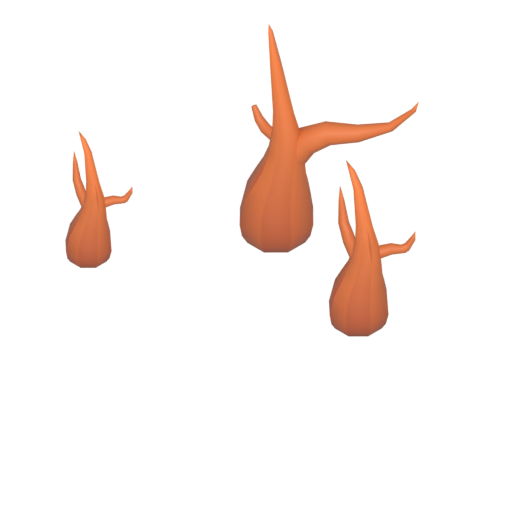
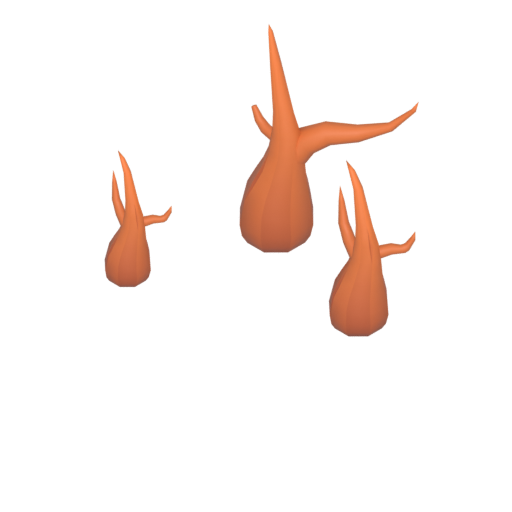
[AlphaPolo] art: 泥沼改用俯視地塊貼圖投影到地平面 + 荊棘微調
- 泥沼：KayKit 泥地方塊(俯視渲染)+睡蓮，改用 iso.axisX/axisY 基底
  投影到棋盤真正的地平面 → 角度與地板完全一致（取代自帶透視的斜視方塊）
- _drawGroundTexture() 一次仿射繪製，_mudFill/_mudTint 可調大小與色調
- 荊棘：三株枯枝聚攏（最左枝往中間靠）

Changed region(s): [[0.125, 0.25, 0.3438, 0.5625]]

diff --git a/lib/game/components/environment.dart b/lib/game/components/environment.dart
@@ -1,4 +1,5 @@
 import 'dart:math';
+import 'dart:typed_data';
 import 'dart:ui' as ui;
 
 import 'package:flame/components.dart';
@@ -44,6 +45,10 @@ class EnvComponent extends PositionComponent
   static ui.Image? _blankImg; // 沒有可倒映物件時綁的 1x1 透明圖
   // 水池外型不規則程度：0＝正圓，越大邊緣越有機（各池外型不同但固定）。
   static const double _pondWobble = 0.05;
+
+  // ── 泥沼俯視貼圖可調參數 ──────────────────────────────
+  static const double _mudFill = 0.95; // 相對格子的填滿程度（>1 稍微溢出、蓋滿整格）
+  static const Color _mudTint = Color(0xFFC6BA9C); // modulate 染色：提亮＋略降橘
 
   bool get _standing => envType == EnvType.boulder || envType == EnvType.woods;
 
@@ -122,7 +127,10 @@ class EnvComponent extends PositionComponent
         }
         break;
       case EnvType.mud:
-        _flat(canvas, foot, const Color(0xCC5D4037));
+        // KayKit 泥地方塊（俯視貼圖）+ 睡蓮，用地面基底向量投影到棋盤真正的
+        // 地平面上 → 角度與地板完全一致；貼地畫在單位之下、填滿整格。
+        _drawGroundTexture(canvas, foot, game.mudSprite.image, _mudTint,
+            fill: _mudFill);
         break;
       case EnvType.thorns:
         // KayKit 灌木叢 3D 素材（帶刺矮樹叢），底部對齊格子中心。
@@ -243,4 +251,36 @@ class EnvComponent extends PositionComponent
   /// 用貼地橢圓填一塊顏色。
   void _flat(Canvas canvas, Offset foot, Color col, {double wobble = 0}) =>
       canvas.drawPath(_groundPath(foot, wobble: wobble), Paint()..color = col);
+
+  /// 把一張「俯視」貼圖以 iso.axisX/axisY 為基底投影到棋盤地平面上：
+  /// 以格中心 [foot] 為中心、依 [fill] 填滿格子，平躺角度與地板完全一致。
+  /// [tint] 以 modulate 相乘（提亮/降飽和），一格內只做一次仿射繪製。
+  void _drawGroundTexture(Canvas canvas, Offset foot, ui.Image img, Color tint,
+      {double fill = 1.0}) {
+    final ax = game.iso.axisX;
+    final ay = game.iso.axisY;
+    final r = game.board.hexagonRadius * fill;
+    final w = img.width.toDouble(), h = img.height.toDouble();
+    final kx = 2 * r / w, ky = 2 * r / h;
+    // 貼圖像素(px,py) → 本元件座標：
+    //   local = foot + axisX*((px/w-.5)*2r) + axisY*((py/h-.5)*2r)
+    final m02 = foot.dx - (ax.x + ay.x) * r;
+    final m12 = foot.dy - (ax.y + ay.y) * r;
+    final m = Float64List.fromList(<double>[
+      ax.x * kx, ax.y * kx, 0, 0, // col 0：px
+      ay.x * ky, ay.y * ky, 0, 0, // col 1：py
+      0, 0, 1, 0, // col 2：z
+      m02, m12, 0, 1, // col 3：平移
+    ]);
+    final paint = Paint()
+      ..isAntiAlias = true
+      ..filterQuality = FilterQuality.medium
+      ..colorFilter = ColorFilter.mode(tint, BlendMode.modulate);
+    canvas
+      ..save()
+      ..transform(m)
+      ..drawImageRect(
+          img, Rect.fromLTWH(0, 0, w, h), Rect.fromLTWH(0, 0, w, h), paint)
+      ..restore();
+  }
 }

diff --git a/lib/game/tower_defense_game.dart b/lib/game/tower_defense_game.dart
@@ -74,6 +74,7 @@ class TowerDefenseGame extends FlameGame with ScrollDetector, ScaleDetector {
   late final Sprite treeSprite; // 密林(woods)天然環境用
   late final Sprite rockSprite; // 巨石(boulder)天然環境用
   late final Sprite thornsSprite; // 荊棘(thorns)天然環境用
+  late final Sprite mudSprite; // 泥沼(mud)天然環境用
 
   /// 敵人直立動畫 spritesheet（水平幀條），依 EnemyKind.id 索引；沒有的用顏色圓。
   final Map<String, ui.Image> enemySheets = {};
@@ -161,6 +162,7 @@ class TowerDefenseGame extends FlameGame with ScrollDetector, ScaleDetector {
     treeSprite = await Sprite.load('tree.png', images: isoImages);
     rockSprite = await Sprite.load('rock.png', images: isoImages);
     thornsSprite = await Sprite.load('thorns.png', images: isoImages);
+    mudSprite = await Sprite.load('mud.png', images: isoImages);
     logSheet = await isoImages.load('log_roll.png');
     explosionSheet = await isoImages.load('explosion.png');
     try {
